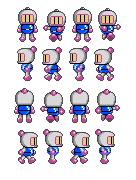
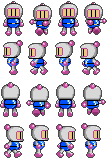
Added player animation

diff --git a/js/GameEngine.js b/js/GameEngine.js
@@ -1,5 +1,8 @@
 GameEngine = Class.extend({
+    tileSize: 32,
+
     stage: null,
+    player: null,
 
     playerImg: null,
     tilesImgs: {},
@@ -10,8 +13,10 @@ GameEngine = Class.extend({
     load: function() {
         console.log("Launching HTML5 Bomberman!");
 
+        // Init canvas
         this.stage = new createjs.Stage("canvas");
 
+        // Load assets
         var queue = new createjs.LoadQueue();
         var that = this;
         queue.addEventListener("complete", function() {
@@ -33,7 +38,6 @@ GameEngine = Class.extend({
         // Set background
         var tilesX = 19;
         var tilesY = 13;
-        var tileSize = 32;
 
         // Draw tiles
         for (var i = 0; i < tilesY; i++) {
@@ -48,8 +52,8 @@ GameEngine = Class.extend({
                     tile = new createjs.Bitmap(this.tilesImgs.grass);
                     isWall = false;
                 }
-                tile.x = j * tileSize;
-                tile.y = i * tileSize;
+                tile.x = j * this.tileSize;
+                tile.y = i * this.tileSize;
                 this.stage.addChild(tile);
 
                 // Draw wood tiles
@@ -58,18 +62,25 @@ GameEngine = Class.extend({
                     && !(i <= 2 && j >= tilesX - 3)
                     && !(i >= tilesY - 3 && j <= 2)) {
                     var wood = new createjs.Bitmap(this.tilesImgs.wood);
-                    wood.x = j * tileSize;
-                    wood.y = i * tileSize;
+                    wood.x = j * this.tileSize;
+                    wood.y = i * this.tileSize;
                     this.stage.addChild(wood);
                 }
             }
         }
+
+        // Draw player
+        this.player = new Player(this.playerImg);
+        this.player.animation.x = this.tileSize * 1.5;
+        this.player.animation.y = this.tileSize * 1.1;
+        this.stage.addChild(this.player.animation);
 
         // Start loop
         createjs.Ticker.addEventListener("tick", function() { gGameEngine.update(); });
     },
 
     update: function() {
+        this.player.update();
         this.stage.update();
     }
 });

diff --git a/js/Player.js b/js/Player.js
@@ -1,0 +1,22 @@
+Player = Class.extend({
+    animation: null,
+
+    init: function(img) {
+        var spriteSheet = new createjs.SpriteSheet({
+            images: [img],
+            frames: { width: 27, height: 40, regX: 14, regY: 7 },
+            animations: {
+                down: [0, 3, "down", 4],
+                left: [4, 7, "left", 4],
+                top: [8, 11, "top", 4],
+                right: [12, 15, "right", 4]
+            }
+        });
+        this.animation = new createjs.BitmapAnimation(spriteSheet);
+        this.animation.gotoAndPlay("down");
+    },
+
+    update: function() {
+    }
+
+});

diff --git a/index.html b/index.html
@@ -5,6 +5,7 @@
     <script type="text/javascript" src="components/EaselJS/lib/easeljs-0.6.0.min.js"></script>
     <script type="text/javascript" src="components/PreloadJS/lib/preloadjs-0.3.0.min.js"></script>
     <script type="text/javascript" src="js/core.js"></script>
+    <script type="text/javascript" src="js/Player.js"></script>
     <script type="text/javascript" src="js/GameEngine.js"></script>
 </head>
 <body onload="gGameEngine.load()">
